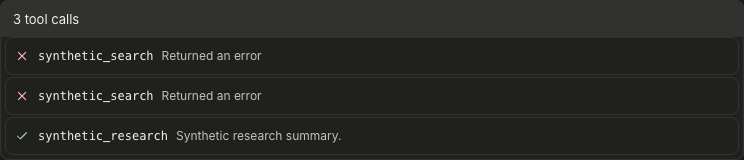
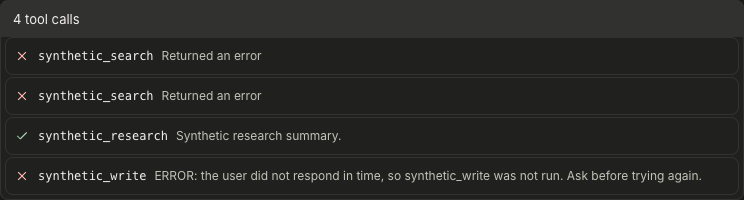
Chat: a plain-text 'ERROR:' tool result is the error state too (#1699)
Core mostly reports failures as text starting 'ERROR:' (Drive, toolboxes,
MCP refusals, timeouts), which the JSON-only check missed.

Closes sbstndalton/noevia#1699

diff --git a/src/components/ToolCalls.tsx b/src/components/ToolCalls.tsx
@@ -20,7 +20,10 @@ export function toolCallRowState(call: Pick<ToolCallView, 'status' | 'result'>):
   if (call.status === 'denied') return 'declined';
   if (call.status === 'stopped') return 'not run';
   if (call.status !== 'done') return 'running';
-  return call.result !== undefined && summariseToolResult(call.result).kind === 'error' ? 'error' : 'done';
+  if (call.result === undefined) return 'done';
+  // #1699: core mostly reports a failure as plain text starting "ERROR:" (Drive, toolboxes, MCP
+  // refusals, timeouts); a JSON body with an error field is the other shape.
+  return /^\s*ERROR:/.test(call.result) || summariseToolResult(call.result).kind === 'error' ? 'error' : 'done';
 }
 
 export const TOOL_RESULT_LIMIT = 4000;
